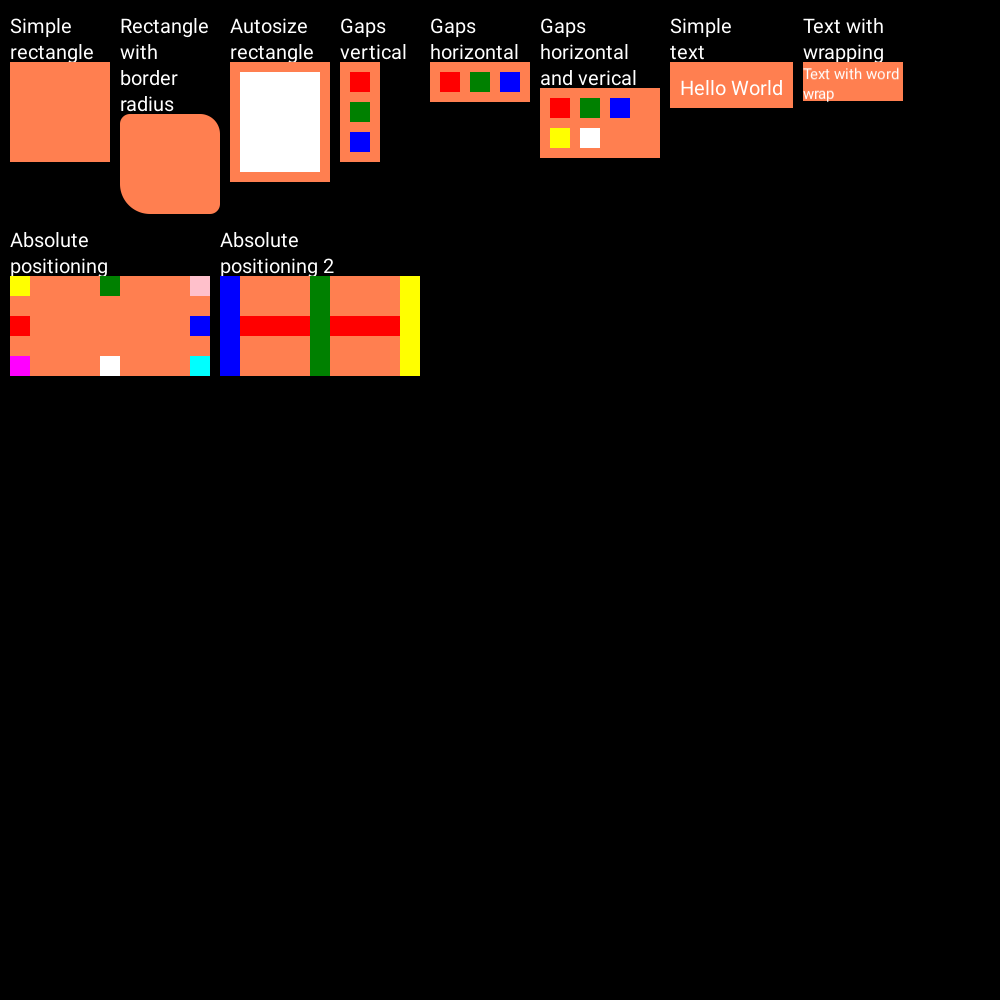
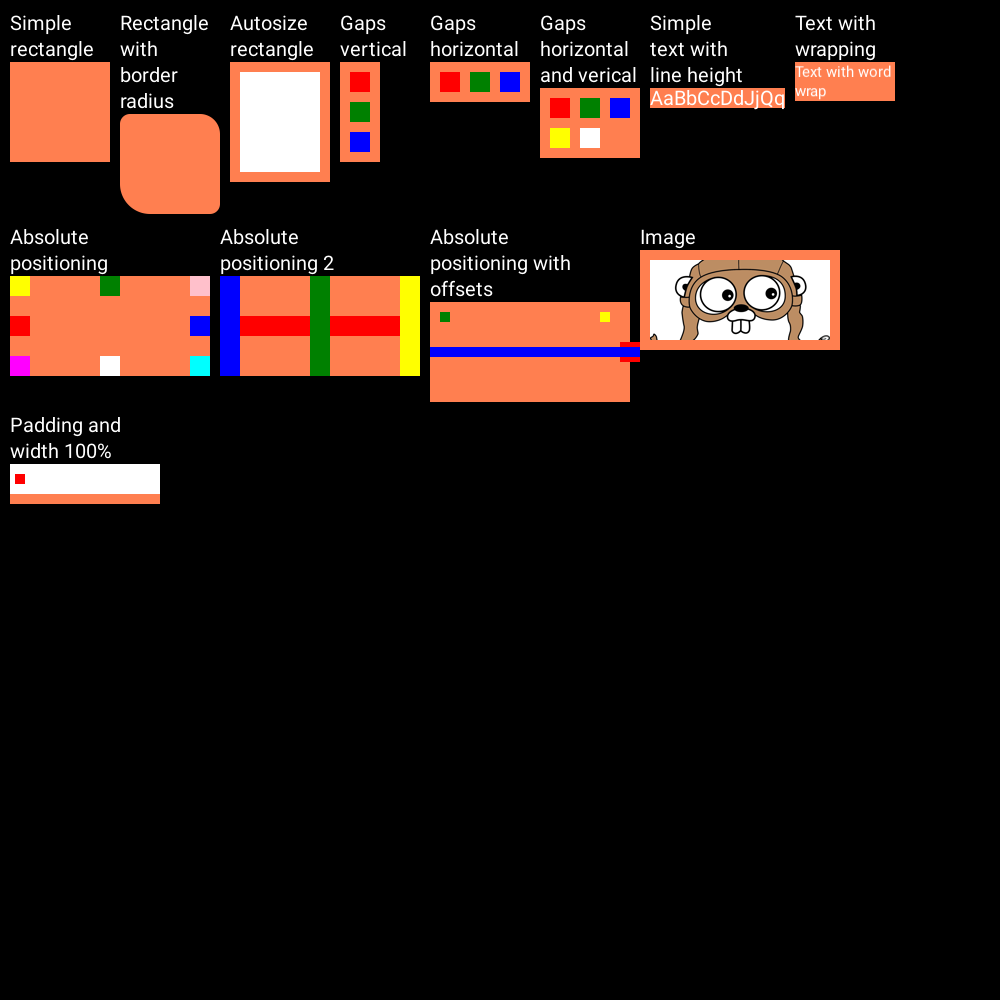
fixes

diff --git a/layout/properties.go b/layout/properties.go
@@ -28,8 +28,8 @@ func calculateProperties(n parsing.Node, context layoutPhaseContext, data any) C
 	borderRadius, _ := parseNValues(n.BorderRadius, 4, context.size.W, context.size.H, data, false, false)
 
 	sz, szErr := parseNValues(n.Size, 2, context.size.W, context.size.H, data, false, false)
-	width, widthErr := parseNValues(n.Width, 1, context.size.W, context.size.H, data, false, false)
-	height, heightErr := parseNValues(n.Height, 1, context.size.W, context.size.H, data, true, false)
+	width, widthErr := parseNValues(n.Width, 1, context.size.W, context.size.H, data, true, false)
+	height, heightErr := parseNValues(n.Height, 1, context.size.W, context.size.H, data, false, false)
 	if szErr != nil {
 		sz[0], sz[1] = -1, -1
 	}
@@ -41,11 +41,11 @@ func calculateProperties(n parsing.Node, context layoutPhaseContext, data any) C
 	}
 
 	anchors := parseAbsoluteAnchor(n.Absolute, data)
-	if anchors[0] && anchors[2] {
-		sz[1] = context.size.H
+	if anchors.HasTop() && anchors.HasBottom() {
+		sz[1] = context.size.H - anchors.Top() - anchors.Bottom()
 	}
-	if anchors[1] && anchors[3] {
-		sz[0] = context.size.W
+	if anchors.HasLeft() && anchors.HasRight() {
+		sz[0] = context.size.W - anchors.Left() - anchors.Right()
 	}
 
 	backgroundColor := color.RGBA{A: 0}
@@ -118,15 +118,26 @@ func parseAbsoluteAnchor(value string, data any) (result utils.Anchors) {
 	value = utils.ReplaceWithValues(value, data)
 	tokens := strings.Fields(value)
 	for _, token := range tokens {
-		switch token {
+		tokenParts := strings.Split(token, "/")
+
+		var direction string
+		var offset float64
+		if len(tokenParts) > 0 {
+			direction = tokenParts[0]
+		}
+		if len(tokenParts) > 1 {
+			offset, _ = strconv.ParseFloat(tokenParts[1], 64)
+		}
+
+		switch direction {
 		case "top":
-			result[0] = true
+			result[0] = utils.Anchor{Has: true, Offset: offset}
 		case "right":
-			result[1] = true
+			result[1] = utils.Anchor{Has: true, Offset: offset}
 		case "bottom":
-			result[2] = true
+			result[2] = utils.Anchor{Has: true, Offset: offset}
 		case "left":
-			result[3] = true
+			result[3] = utils.Anchor{Has: true, Offset: offset}
 		}
 	}
 	return result
@@ -210,7 +221,7 @@ func parseNValues(str string, max int, parentWidth float64, parentHeight float64
 	return result, nil
 }
 
-var hexRegex = regexp.MustCompile(`^#([a-fA-F0-9]{6})([a-fA-F0-9]{2})?$`)
+var hexRegex = regexp.MustCompile(`^0x([a-fA-F0-9]{6})([a-fA-F0-9]{2})?$`)
 var rgbRegex = regexp.MustCompile(`^rgb(a)?\((\d{1,3}),\s*(\d{1,3}),\s*(\d{1,3})(,\s*(0|1|0?\.\d+))?\)$`)
 
 func parseColor(c string) (color.RGBA, error) {

diff --git a/render/render.go b/render/render.go
@@ -3,6 +3,7 @@ package render
 import (
 	"bytes"
 	"github.com/godknowsiamgood/decorender/draw"
+	"github.com/godknowsiamgood/decorender/fonts"
 	"github.com/godknowsiamgood/decorender/layout"
 	"github.com/godknowsiamgood/decorender/resources"
 	"image"
@@ -48,30 +49,35 @@ func Do(n layout.Node, drawer draw.Drawer) {
 	drawer.SetTranslation(leftPadding, topPadding)
 
 	if n.Text != "" {
-		heightAndSizeOffset := n.Size.H - (n.Size.H-n.Props.FontDescription.Size)/2
-		drawer.SetTranslation(0, heightAndSizeOffset)
+		offset := fonts.GetFontFaceBaseLineOffset(fonts.GetFontFace(n.Props.FontDescription), n.Size.H)
+		//heightAndSizeOffset := n.Size.H - (n.Size.H-n.Props.FontDescription.Size)/2
+		drawer.SetTranslation(0, offset)
 		drawer.DrawText(n.Text, n.Props.FontDescription, n.Props.FontColor)
-		drawer.SetTranslation(0, -heightAndSizeOffset)
+		drawer.SetTranslation(0, -offset)
 	}
 
 	for _, cn := range n.Children {
 		var absTop, absLeft float64
 
 		if cn.HasAnchors() {
-			if cn.Props.Anchors.Left() || cn.Props.Anchors.Right() {
-				if !cn.Props.Anchors.Top() && !cn.Props.Anchors.Bottom() {
+			if cn.Props.Anchors.HasLeft() || cn.Props.Anchors.HasRight() {
+				if !cn.Props.Anchors.HasTop() && !cn.Props.Anchors.HasBottom() {
 					absTop = (n.Size.H-topPadding-bottomPadding)/2 - cn.Size.H/2
 				}
-				if cn.Props.Anchors.Right() {
-					absLeft = n.Size.W - leftPadding - rightPadding - cn.Size.W
+				if cn.Props.Anchors.HasRight() {
+					absLeft = n.Size.W - leftPadding - rightPadding - cn.Size.W - cn.Props.Anchors.Right()
+				} else {
+					absLeft = cn.Props.Anchors.Left()
 				}
 			}
-			if cn.Props.Anchors.Top() || cn.Props.Anchors.Bottom() {
-				if !cn.Props.Anchors.Left() && !cn.Props.Anchors.Right() {
+			if cn.Props.Anchors.HasTop() || cn.Props.Anchors.HasBottom() {
+				if !cn.Props.Anchors.HasLeft() && !cn.Props.Anchors.HasRight() {
 					absLeft = (n.Size.W-leftPadding-rightPadding)/2 - cn.Size.W/2
 				}
-				if cn.Props.Anchors.Bottom() {
-					absTop = n.Size.H - topPadding - bottomPadding - cn.Size.H
+				if cn.Props.Anchors.HasBottom() {
+					absTop = n.Size.H - topPadding - bottomPadding - cn.Size.H - cn.Props.Anchors.Bottom()
+				} else {
+					absTop = cn.Props.Anchors.Top()
 				}
 			}
 		}

diff --git a/fonts/fonts.go b/fonts/fonts.go
@@ -1,6 +1,7 @@
 package fonts
 
 import (
+	_ "embed"
 	"github.com/godknowsiamgood/decorender/parsing"
 	"golang.org/x/image/font"
 	"golang.org/x/image/font/opentype"
@@ -10,6 +11,9 @@ import (
 	"strconv"
 	"sync"
 )
+
+//go:embed default.ttf
+var defaultFontFile []byte
 
 type FaceDescription struct {
 	Family string
@@ -61,6 +65,14 @@ func GetFontFace(fd FaceDescription) font.Face {
 	return face
 }
 
+func GetFontFaceBaseLineOffset(face font.Face, lineHeight float64) float64 {
+	metrics := face.Metrics()
+	ascent := float64(metrics.Ascent.Ceil())
+	descent := float64(metrics.Descent.Ceil())
+	baselineOffset := (lineHeight - (ascent + descent)) / 2
+	return ascent + baselineOffset
+}
+
 func LoadFaces(faceTemplates []parsing.FontFace) error {
 	facesMx.Lock()
 	defer facesMx.Unlock()
@@ -73,17 +85,16 @@ func LoadFaces(faceTemplates []parsing.FontFace) error {
 		Family: "default",
 		Style:  "normal",
 		Weight: "400",
-		File:   "./Roboto-Regular.ttf",
-	})
+	}, defaultFontFile)
 
 	for _, ft := range faceTemplates {
-		loadFont(ft)
+		loadFont(ft, nil)
 	}
 
 	return nil
 }
 
-func loadFont(faceTemplate parsing.FontFace) {
+func loadFont(faceTemplate parsing.FontFace, content []byte) {
 	cff := cachedFontFace{}
 	if faceTemplate.Style != "" {
 		switch faceTemplate.Style {
@@ -116,12 +127,15 @@ func loadFont(faceTemplate parsing.FontFace) {
 	if slices.IndexFunc(faces, func(f cachedFontFace) bool {
 		return f.family == cff.family && f.style == cff.style && f.weight == cff.weight
 	}) == -1 {
-		data, err := os.ReadFile(faceTemplate.File)
-		if err != nil {
-			return
+		if content == nil {
+			var err error
+			content, err = os.ReadFile(faceTemplate.File)
+			if err != nil {
+				return
+			}
 		}
 
-		fnt, err := opentype.Parse(data)
+		fnt, err := opentype.Parse(content)
 		if err != nil {
 			return
 		}

diff --git a/layout/layout.go b/layout/layout.go
@@ -79,9 +79,6 @@ func doLayoutNode(n parsing.Node, context layoutPhaseContext, userData any) []No
 			newContext.isRoot = false
 		}
 
-		newContext.size.W -= ln.Props.Padding[1] + ln.Props.Padding[3]
-		newContext.size.H -= ln.Props.Padding[0] + ln.Props.Padding[2]
-
 		// retrieve child nodes
 
 		var childNodes []Node
@@ -89,6 +86,9 @@ func doLayoutNode(n parsing.Node, context layoutPhaseContext, userData any) []No
 
 		if n.Image != "" {
 			ln.Image = utils.ReplaceWithValues(n.Image, value)
+			if needSetNodeSize {
+				ln.Size = context.size
+			}
 		}
 
 		var isText bool
@@ -97,6 +97,9 @@ func doLayoutNode(n parsing.Node, context layoutPhaseContext, userData any) []No
 			text = utils.ReplaceWithValues(n.Text, value)
 			isText = text != ""
 		}
+
+		newContext.size.W -= ln.Props.Padding[1] + ln.Props.Padding[3]
+		newContext.size.H -= ln.Props.Padding[0] + ln.Props.Padding[2]
 
 		if isText {
 			childNodes, whiteSpaceNode = spitTextToNodes(text, newContext)
@@ -158,20 +161,23 @@ func doLayoutNode(n parsing.Node, context layoutPhaseContext, userData any) []No
 							}
 						}
 						ln.Size.W = maxWidth
+
+						// in columns, there are only one row, so add paddings to size right now
+						ln.Size.W += ln.Props.Padding[1] + ln.Props.Padding[3]
 					}
 				}
 
 				if isDirectionRow {
 					ln.Size.H += ln.Props.InnerGap * float64(len(rows)-1)
+					ln.Size.H += ln.Props.Padding[0] + ln.Props.Padding[2]
 					if ln.Size.W == 0 {
 						ln.Size.W = s
+						ln.Size.W += ln.Props.Padding[1] + ln.Props.Padding[3]
 					}
 				} else {
 					ln.Size.H = s
+					ln.Size.H += ln.Props.Padding[0] + ln.Props.Padding[2]
 				}
-
-				ln.Size.W += ln.Props.Padding[1] + ln.Props.Padding[3]
-				ln.Size.H += ln.Props.Padding[0] + ln.Props.Padding[2]
 			}
 
 			// process Justify

diff --git a/decorender.go b/decorender.go
@@ -2,6 +2,7 @@ package decorender
 
 import (
 	"errors"
+	"fmt"
 	"github.com/godknowsiamgood/decorender/draw"
 	"github.com/godknowsiamgood/decorender/fonts"
 	"github.com/godknowsiamgood/decorender/layout"
@@ -9,7 +10,11 @@ import (
 	"github.com/godknowsiamgood/decorender/render"
 	"gopkg.in/yaml.v3"
 	"image"
+	"image/jpeg"
+	"image/png"
 	"os"
+	"path/filepath"
+	"strings"
 )
 
 var NothingToRenderErr = errors.New("nothing to render")
@@ -61,4 +66,26 @@ func (r *Renderer) Render(userData any) (image.Image, error) {
 	render.Do(nodes[0], r.drawer)
 
 	return r.drawer.RetrieveImage(), nil
+}
+
+func (r *Renderer) RenderToFile(userData any, fileName string) error {
+	img, err := r.Render(userData)
+	if err != nil {
+		return err
+	}
+
+	file, err := os.Create(fileName)
+	if err != nil {
+		return err
+	}
+	defer func() { _ = file.Close() }()
+
+	switch strings.ToLower(filepath.Ext(fileName)) {
+	case ".jpg", ".jpeg":
+		return jpeg.Encode(file, img, &jpeg.Options{Quality: 95})
+	case ".png":
+		return png.Encode(file, img)
+	default:
+		return fmt.Errorf("unsupported file format")
+	}
 }

diff --git a/utils/utils.go b/utils/utils.go
@@ -27,22 +27,39 @@ func (fv FourValues) Height() float64 {
 	return fv[1]
 }
 
-type Anchors [4]bool
+type Anchor struct {
+	Has    bool
+	Offset float64
+}
+type Anchors [4]Anchor
 
 func (a Anchors) Has() bool {
-	return a[0] || a[1] || a[2] || a[3]
+	return a[0].Has || a[1].Has || a[2].Has || a[3].Has
 }
-func (a Anchors) Left() bool {
-	return a[3]
+func (a Anchors) Left() float64 {
+	return a[3].Offset
 }
-func (a Anchors) Top() bool {
-	return a[0]
+func (a Anchors) Top() float64 {
+	return a[0].Offset
 }
-func (a Anchors) Right() bool {
-	return a[1]
+func (a Anchors) Right() float64 {
+	return a[1].Offset
 }
-func (a Anchors) Bottom() bool {
-	return a[2]
+func (a Anchors) Bottom() float64 {
+	return a[2].Offset
+}
+
+func (a Anchors) HasTop() bool {
+	return a[0].Has
+}
+func (a Anchors) HasLeft() bool {
+	return a[3].Has
+}
+func (a Anchors) HasRight() bool {
+	return a[1].Has
+}
+func (a Anchors) HasBottom() bool {
+	return a[2].Has
 }
 
 func GetSha256(str string) string {

diff --git a/draw/default_drawer.go b/draw/default_drawer.go
@@ -21,6 +21,11 @@ func (d *DefaultDrawer) InitImage(width int, height int) {
 func (d *DefaultDrawer) DrawRect(w float64, h float64, c color.Color, radius utils.FourValues) {
 	d.gc.SetColor(c)
 
+	radius[0] = min(radius[0], h/2, w/2)
+	radius[1] = min(radius[1], h/2, w/2)
+	radius[2] = min(radius[2], h/2, w/2)
+	radius[3] = min(radius[3], h/2, w/2)
+
 	// Top-left corner
 	if radius[0] > 0 {
 		d.gc.DrawArc(0+radius[0], 0+radius[0], radius[0], -math.Pi, -math.Pi/2)
